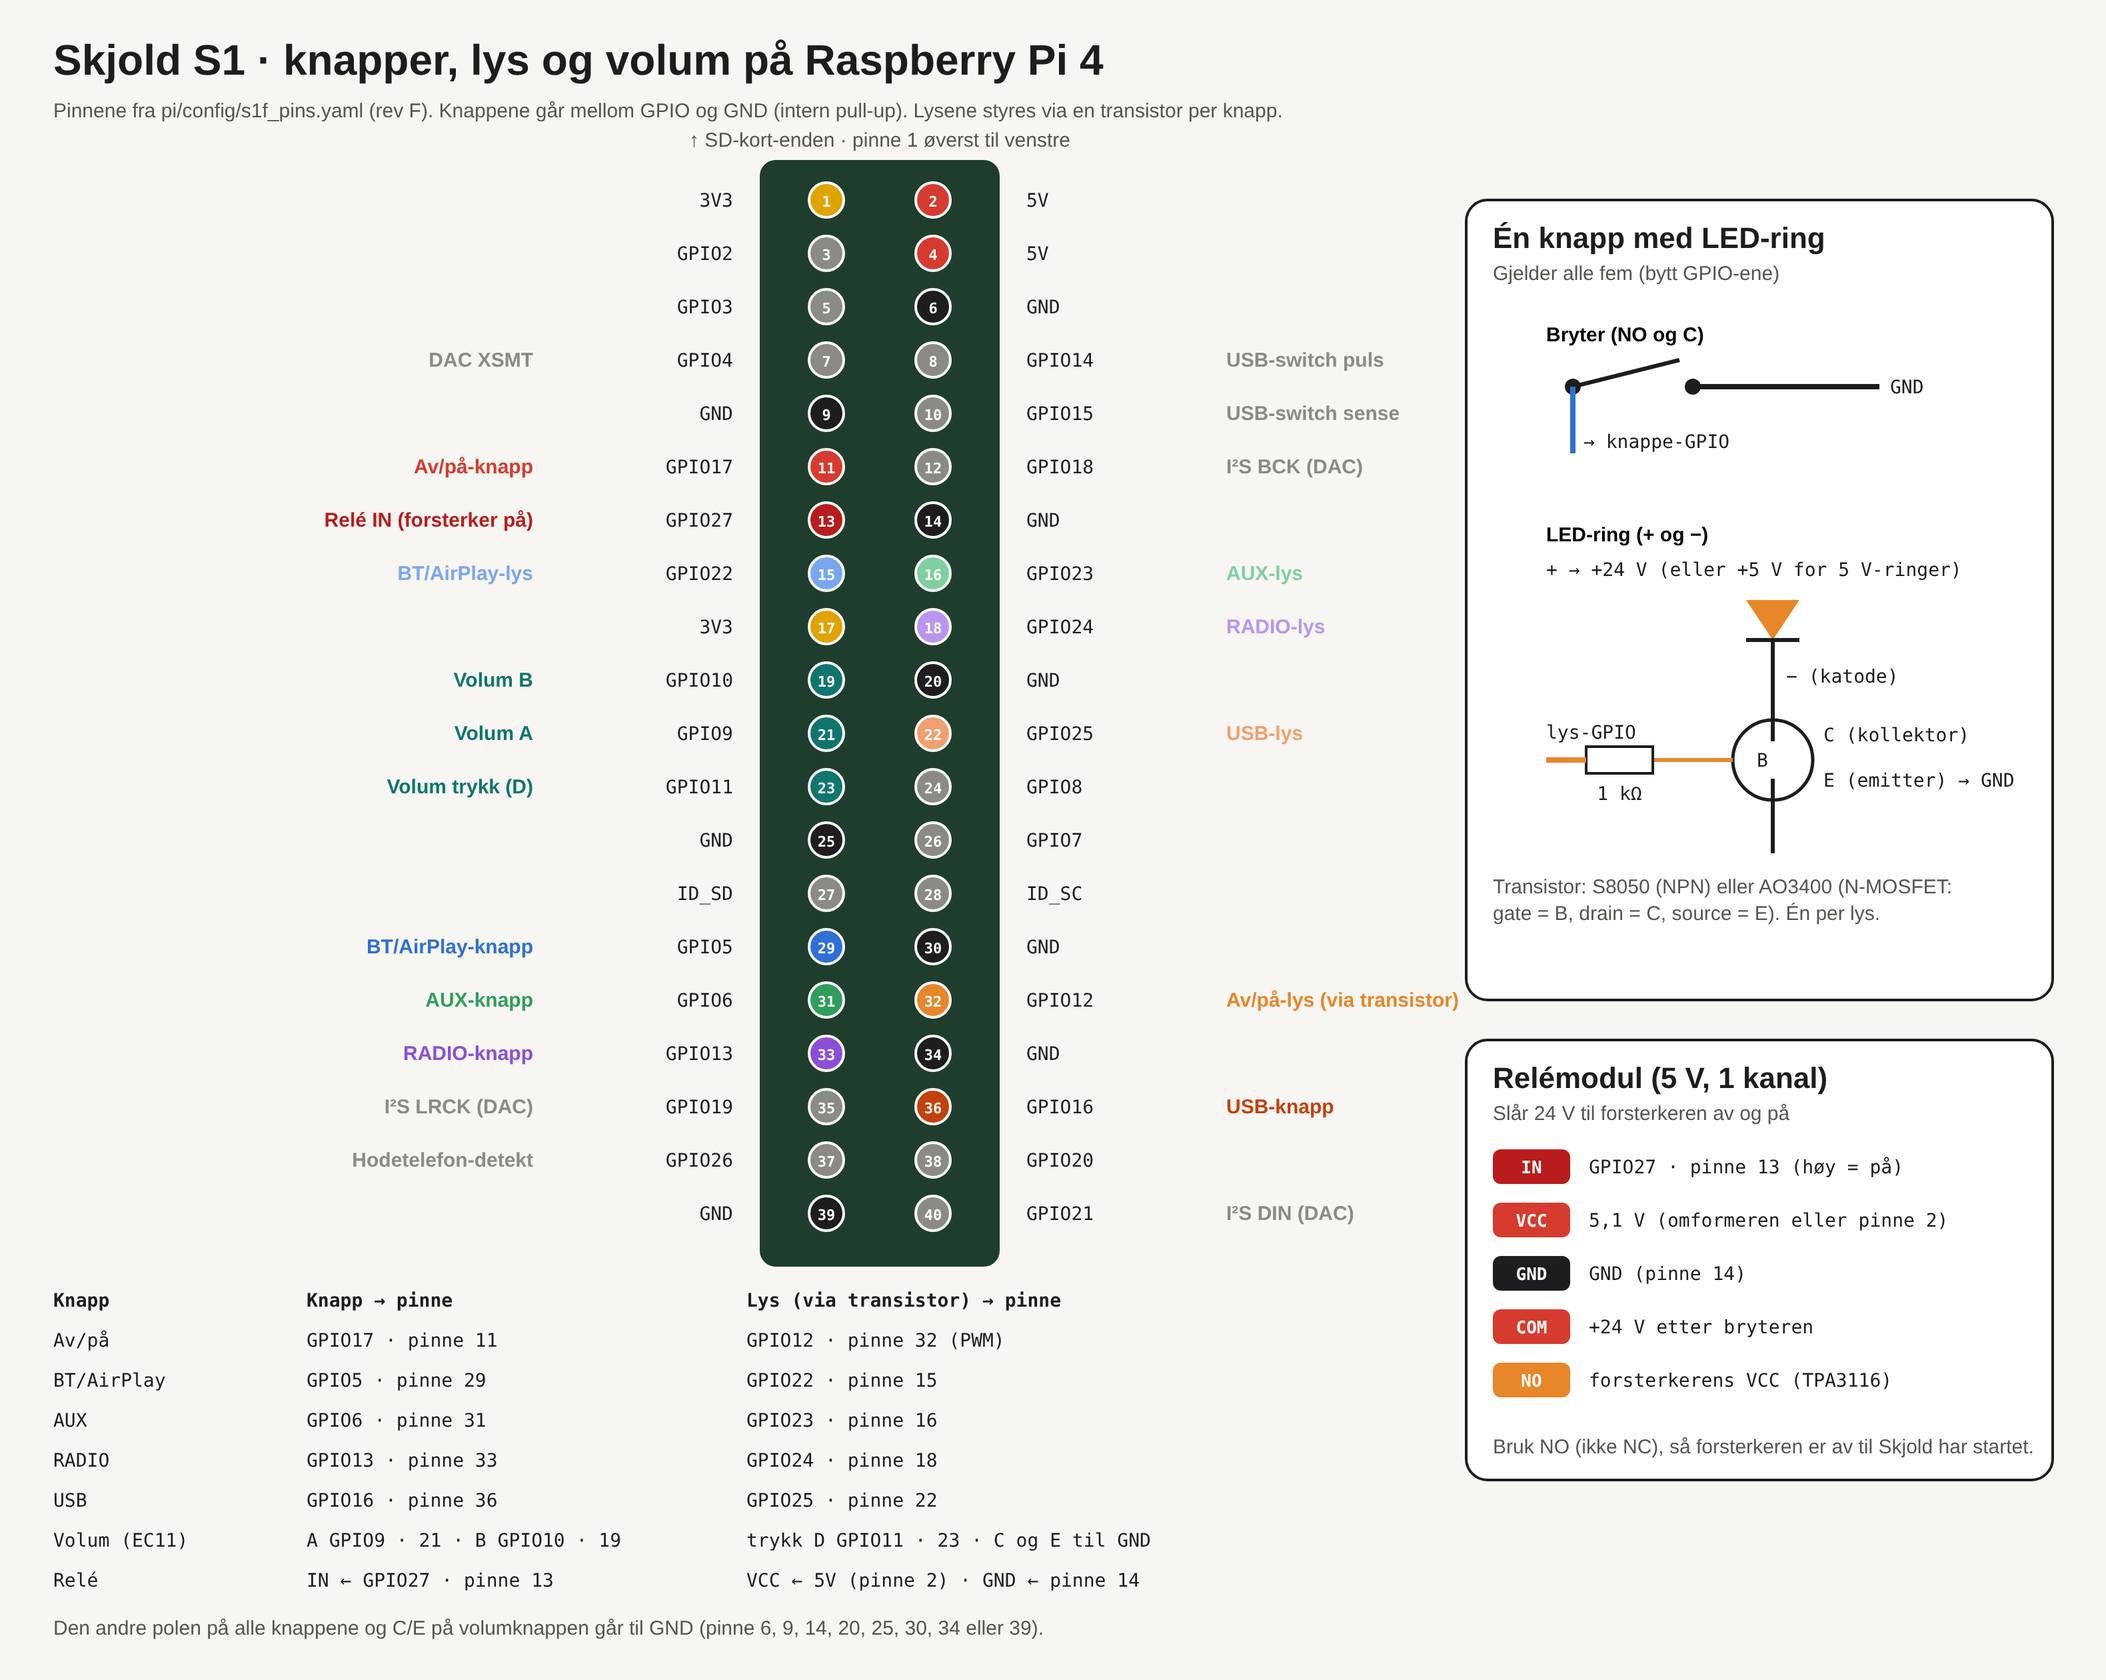
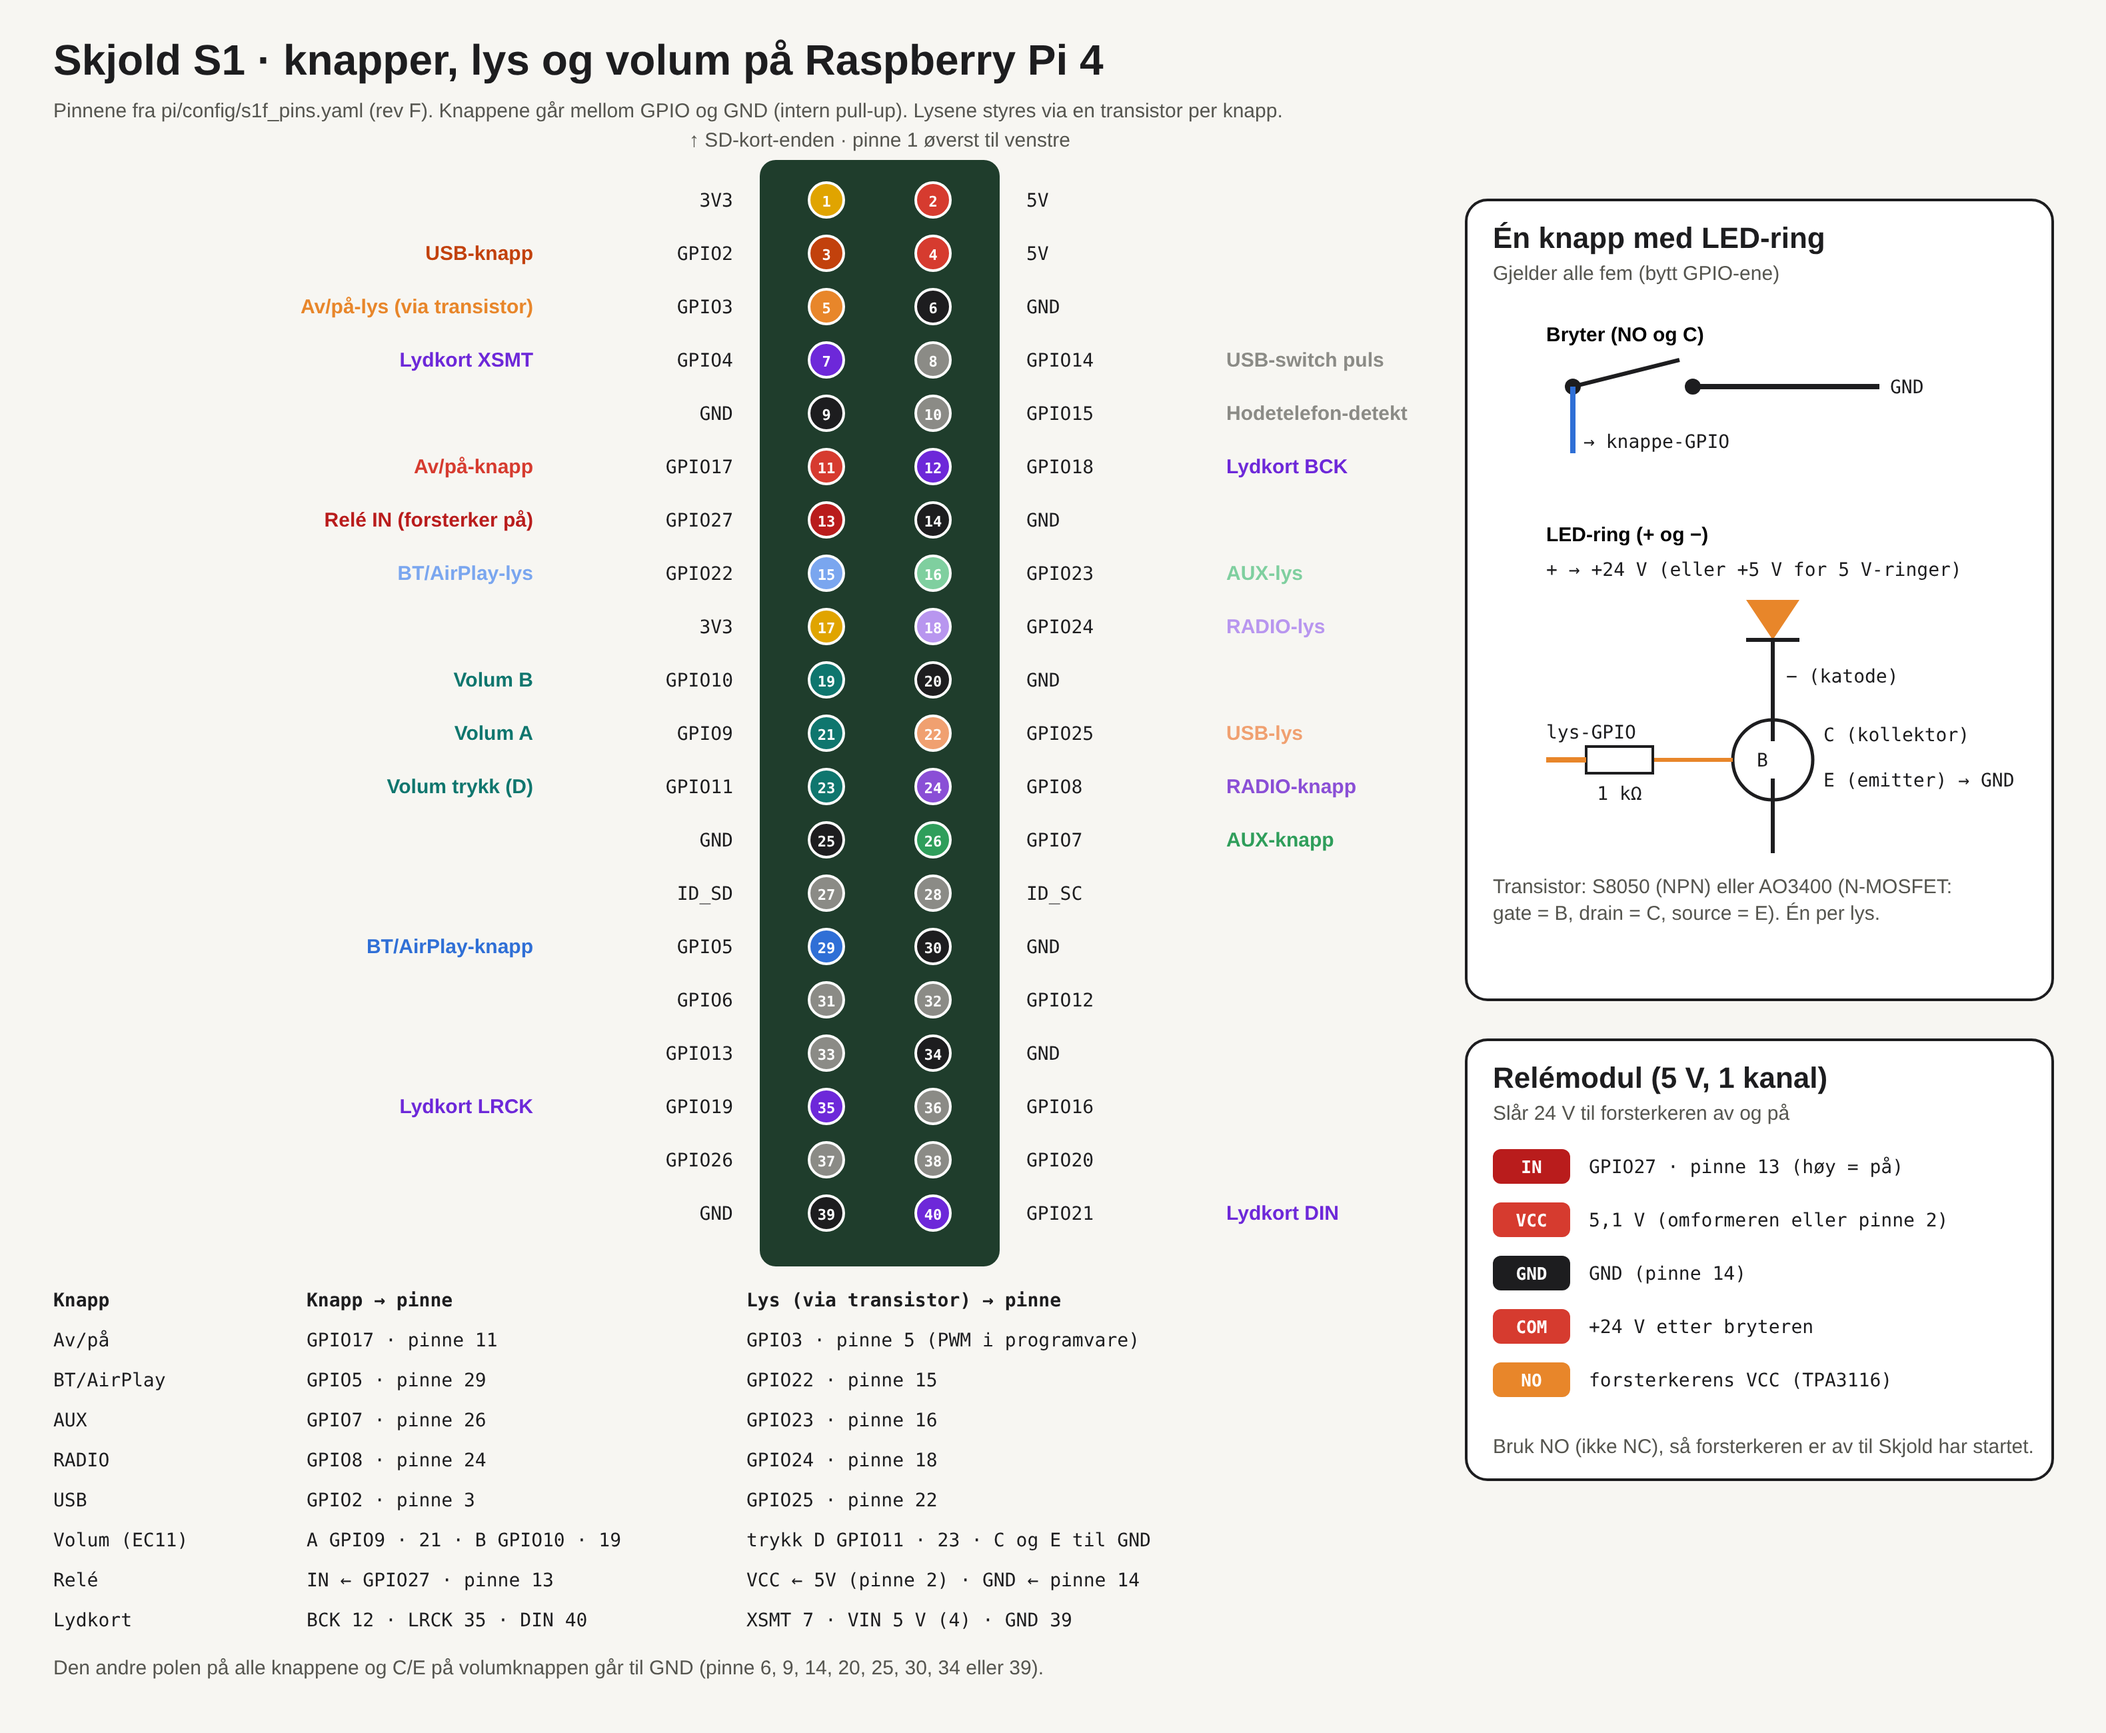
Skjold S1 rev F: pinne 31–40 fri for lydkortet, nye pinner og skjema med lydkortet
- AUX-knapp GPIO7 (26), RADIO-knapp GPIO8 (24), USB-knapp GPIO2 (3), av/på-lys GPIO3 (5,
  PWM i programvare), hodetelefondetekt GPIO15 (10); USB-switch-avlesning av
- Pinne 31–40 brukes bare av lydkortet (PCM5102: LRCK 35, DIN 40) og GND; test sjekker det
- install.sh slår av I²C for S1 (GPIO2/3 er knapp og lys)
- Koblingsskjemaene viser lydkortet (BCK 12, LRCK 35, DIN 40, XSMT 7, VIN 5 V, GND)
- STROM_REV_F og S1F.md oppdatert

Claude-Session: https://claude.ai/code/session_01FaJKmap7xh2tAyS84khbxV

diff --git a/pi/tests/test_s1f.py b/pi/tests/test_s1f.py
@@ -39,7 +39,10 @@ def test_pins_file_parses_without_pyyaml():
     used = list(cfg["buttons"].values()) + list(cfg["leds"].values()) + list(cfg["encoder"].values()) + \
         [cfg["relay"], cfg["dac_xsmt"], cfg["headphone_detect"], cfg["usb_switch"]["pulse"], cfg["usb_switch"]["sense"]]
     assert len(used) == len(set(used)), "samme pinne brukt to ganger"
-    assert not set(used) & {0, 1, 2, 3, 18, 19, 21}, "I²S/I²C/EEPROM-pinner er reservert"
+    assert not set(used) & {0, 1, 18, 19, 21}, "I²S- og EEPROM-pinner er reservert"
+    phys = {2: 3, 3: 5, 4: 7, 17: 11, 27: 13, 22: 15, 10: 19, 9: 21, 11: 23, 5: 29, 6: 31, 13: 33, 19: 35, 26: 37, 14: 8, 15: 10,
+            18: 12, 23: 16, 24: 18, 25: 22, 8: 24, 7: 26, 12: 32, 16: 36, 20: 38, 21: 40}
+    assert not [g for g in used if g is not None and phys[g] >= 31], "pinne 31–40 er holdt fri til lydkortet"
     assert cfg["timing"]["click_window"] == 0.38 and cfg["led_active_high"] is True and cfg["usb_switch"]["sense_pc1"] == "low"
 
 

diff --git a/pi/S1F.md b/pi/S1F.md
@@ -34,26 +34,28 @@ deleliste, koblingstabeller og rekkefølge: [kabinett/skjold-s1/STROM_REV_F.md](
 
 ## Pinner (forslag, `pi/config/s1f_pins.yaml`)
 
-Knapper til GND (intern pull-up), LED-ringer via transistor. Opptatt: I²S 18/19/21, I²C 2/3 og 0/1 holdes ledige.
-SPI og UART er av.
+Knapper til GND (intern pull-up), LED-ringer via transistor. Opptatt: I²S 18/19/21 til lydkortet, 0/1 holdes ledige.
+Pinne 31–40 er fri for lydkortet (35 LRCK, 40 DIN) og GND, så USB-knappen og av/på-lyset bruker I²C-pinnene 2/3.
+SPI og UART er av. Koblingsskjema: `kabinett/skjold-s1/s1_gpio_ledninger.png`.
 
 | Funksjon | GPIO | Fysisk pinne |
 |---|---|---|
 | Knapp BT/AirPlay | 5 | 29 |
-| Knapp AUX | 6 | 31 |
-| Knapp RADIO | 13 | 33 |
-| Knapp USB | 16 | 36 |
+| Knapp AUX | 7 | 26 |
+| Knapp RADIO | 8 | 24 |
+| Knapp USB | 2 | 3 |
 | Knapp power | 17 | 11 |
 | LED BT/AirPlay | 22 | 15 |
 | LED AUX | 23 | 16 |
 | LED RADIO | 24 | 18 |
 | LED USB | 25 | 22 |
-| LED power (PWM0) | 12 | 32 |
+| LED power (programvare-PWM) | 3 | 5 |
 | Volumhjul A / B / trykk | 9 / 10 / 11 | 21 / 19 / 23 |
 | Relé (24 V til forsterker) | 27 | 13 |
 | PCM5102 XSMT | 4 | 7 |
-| USB-switch puls / avlesning | 14 / 15 | 8 / 10 |
-| Hodetelefondetekt | 26 | 37 |
+| USB-switch puls (avlesning av) | 14 | 8 |
+| Hodetelefondetekt | 15 | 10 |
+| Lydkort PCM5102 BCK / LRCK / DIN | 18 / 19 / 21 | 12 / 35 / 40 |
 
 Test uten resten av Skjold: `sudo systemctl stop ki-amp && python3 pi/tools/s1f_inputtest.py`.
 

diff --git a/kabinett/skjold-s1/STROM_REV_F.md b/kabinett/skjold-s1/STROM_REV_F.md
@@ -69,7 +69,7 @@ ingen egne ledninger fra omformeren.
 | GPIO (BCM) | Fysisk pinne | Til |
 |---|---|---|
 | 27 | 13 | Relémodul **IN** (høy = forsterker på) |
-| 22 / 23 / 24 / 25 / 12 | 15 / 16 / 18 / 22 / 32 | 1 kΩ → basis (S8050) eller gate (AO3400) på LED-transistoren for BT, AUX, RADIO, USB og power |
+| 22 / 23 / 24 / 25 / 3 | 15 / 16 / 18 / 22 / 5 | 1 kΩ → basis (S8050) eller gate (AO3400) på LED-transistoren for BT, AUX, RADIO, USB og power |
 | 4 | 7 | PCM5102 XSMT (myk demping) |
 | GND | 6, 9, 14 … | Relémodul GND, transistorenes emitter/source |
 
